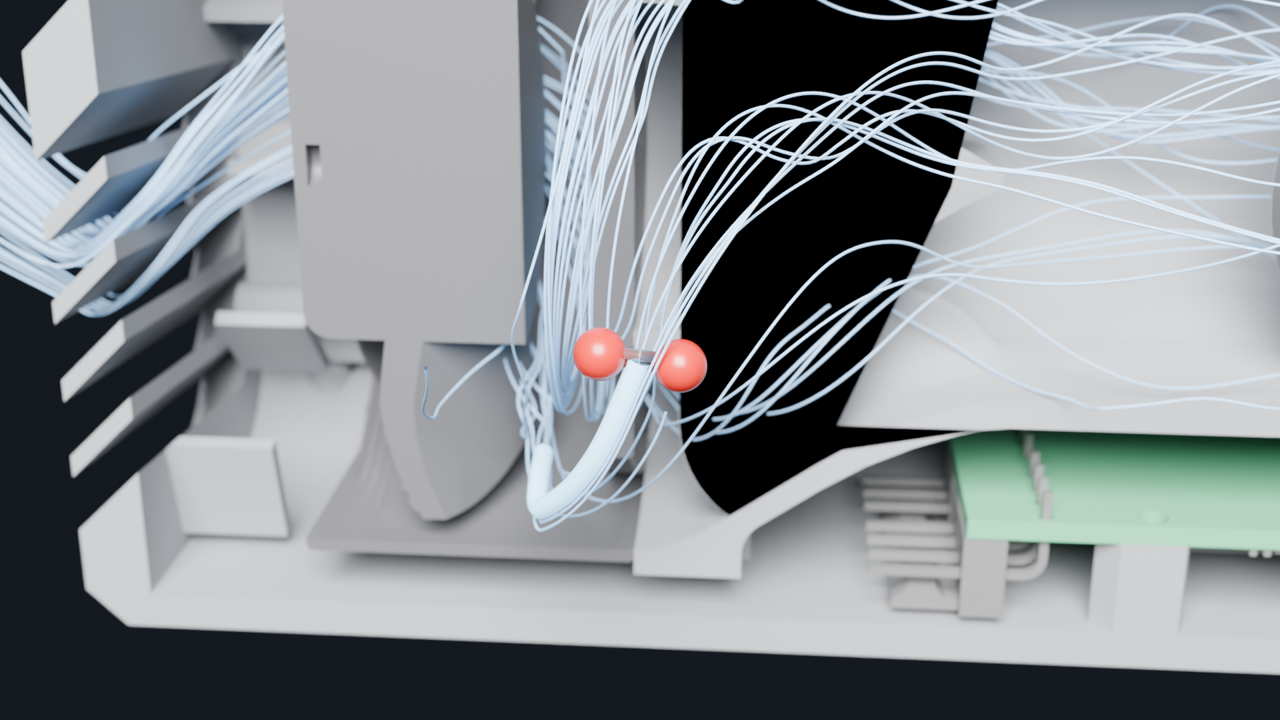
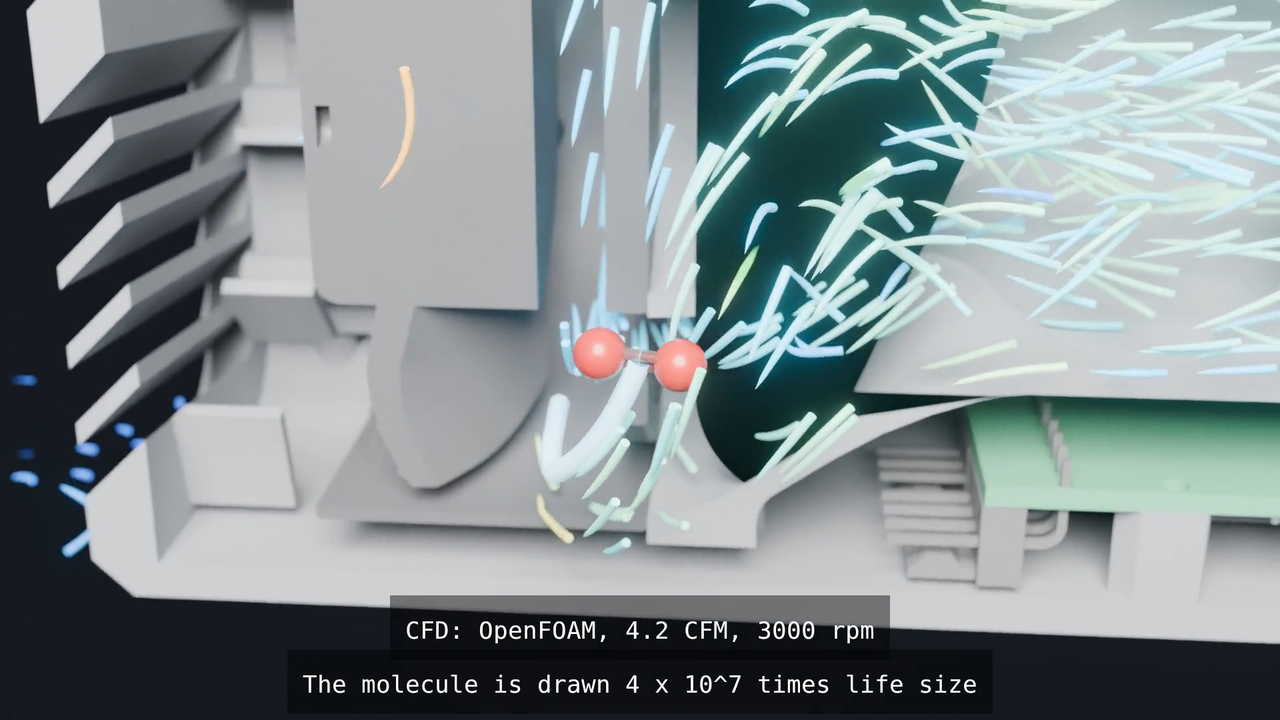
Poster: frame 290 of the finished film (minimeat-cp2). The molecule at the fan's inlet among the gas parcels, with the film's captions; replaces the pathline-only still

diff --git a/docs/mech.md b/docs/mech.md
@@ -139,9 +139,9 @@ in smoke to the brisket. `uv run --group scene mech-scene` (Blender as the `bpy`
 from `assembly.glb` and the pathlines; `--still N` renders frames, `--video` the film (`--preview` for a quick one), `--shot` holds one
 camera instead of the film's cuts, `--no-fire` leaves the egg out, `--no-cut` skips the cutaway.
 
-![The molecule in the fan's plenum, the pathline behind it](mech/animation.png)
+![The molecule in the fan's plenum, among the gas parcels](mech/animation.png)
 
-*Frame 290 of the film: the O2 behind the fan's inlet, its pathline from the CFD (a Cycles render, `just scene --still 290 --shot follow`).*
+*Frame 290 of the film: the O2 behind the fan's inlet, its pathline from the CFD trailing it, and the gas as parcels moving on the CFD's lines (a frame of the finished film, captions as in it).*
 
 **The film** is 50 s in five parts (`SECONDS`): 22 s from the room to the tube, 8 s through the egg to the coal, 9 s of the reaction, 8 s of
 the rise and 3 s at the meat. Cameras and cuts are timeline markers in the .blend, to hand-tune (`SHOTS`): outside the gills, a follow
